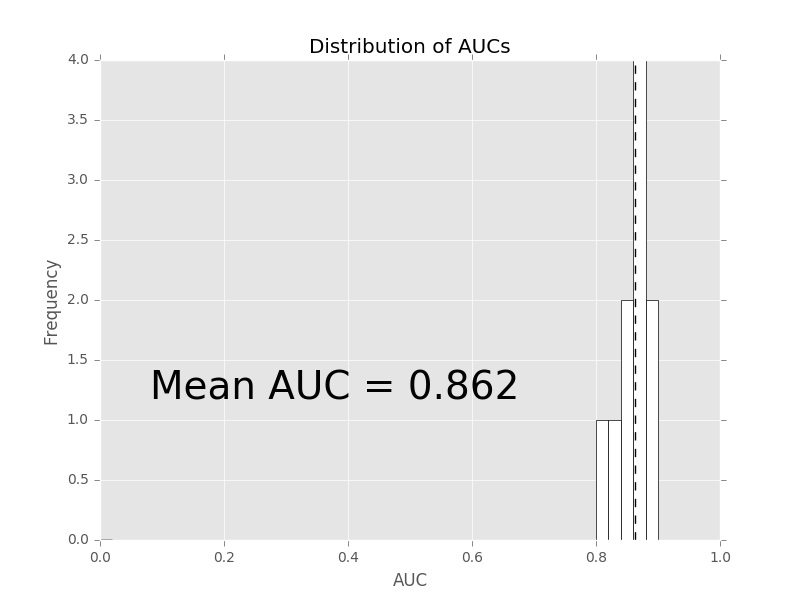
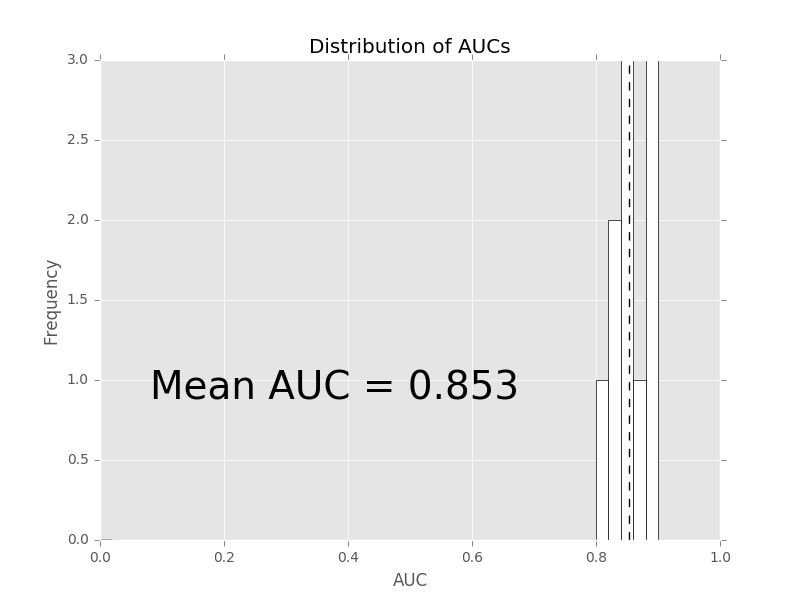
preprocessing looks like an initial success for python

diff --git a/Python/easyml/random_forest.py b/Python/easyml/random_forest.py
@@ -5,56 +5,58 @@ import numpy as np
 from os import path
 from sklearn.ensemble import RandomForestClassifier, RandomForestRegressor
 from sklearn.model_selection import train_test_split
-from sklearn.preprocessing import StandardScaler
 
 from .bootstrap import bootstrap_aucs, bootstrap_mses, bootstrap_predictions
 from .plot import plot_auc_histogram, plot_gaussian_predictions, plot_mse_histogram, plot_roc_curve
+from .preprocess import preprocess_identity
 from .sample import sample_equal_proportion
+from .utils import set_random_state
 
 
 __all__ = ['easy_random_forest']
 
 
-def easy_random_forest(data, dependent_variable, family='gaussian', sample=None,
-                       exclude_variables=None, categorical_variables=None,
-                       standardize_data=True, train_size=0.667, survival_rate_cutoff=0.05,
+def easy_random_forest(data, dependent_variable, family='gaussian',
+                       sampler=None, preprocessor=None,
+                       exclude_variables=None, categorical_variables=None, train_size=0.667,
                        n_samples=1000, n_divisions=1000, n_iterations=10,
                        out_directory='.', random_state=None, progress_bar=True,
                        n_core=1, **kwargs):
     # Make it run in sequential for now
     n_core = 1
 
-    # Handle random state
-    if random_state is not None:
-        np.random.seed(random_state)
+    # Set random state
+    set_random_state(random_state)
 
-    # Handle columns
+    # Set columns
     column_names = data.columns
-    column_names = [c for c in column_names if c != dependent_variable]
-    if exclude_variables is not None:
-        column_names = [c for c in column_names if c not in exclude_variables]
 
-    # Exclude certain variables and y
-    y = data[dependent_variable].values
-    data = data.drop(dependent_variable, axis=1)
+    # Exclude variables
     if exclude_variables is not None:
         data = data.drop(exclude_variables, axis=1)
+        column_names = [c for c in column_names if c not in exclude_variables]
 
-    # If True, standardize the data
-    if standardize_data:
-        stdsc = StandardScaler()
-        if categorical_variables is None:
-            X = data.values
-            X = stdsc.fit_transform(X)
-        else:
-            X_categorical = data[categorical_variables].values
-            X_numeric = data.drop(categorical_variables, axis=1).values
-            X_std = stdsc.fit_transform(X_numeric)
-            X = np.concatenate([X_categorical, X_std], axis=1)
-            column_names = [c for c in column_names if c not in categorical_variables]
-            column_names = categorical_variables + column_names
+    # Isolate y
+    y = data[dependent_variable].values
 
-    # Set glmnet specific handlers
+    # Remove y column name from column names
+    column_names = [c for c in column_names if c != dependent_variable]
+    data = data.drop(dependent_variable, axis=1)
+
+    # Isolate X
+    X = data.values
+
+    # Move categorical names to the front when there are categorical variables
+    if categorical_variables is not None and preprocessor is not None:
+        column_names = [c for c in column_names if c not in categorical_variables]
+        column_names = categorical_variables + column_names
+        categorical_variables = np.array([True if c in categorical_variables else False for c in column_names])
+
+    # Set preprocessor function
+    if preprocessor is None:
+        preprocessor = preprocess_identity
+
+    # Set random_forest specific handlers
     def fit_model(e, X, y):
         return e.fit(X, y)
 
@@ -65,14 +67,16 @@ def easy_random_forest(data, dependent_variable, family='gaussian', sample=None,
         def predict_model(e, X):
             return e.predict(X)
 
-        if sample is None:
-            sample = train_test_split
+        if sampler is None:
+            sampler = train_test_split
 
         # Split data
-        X_train, X_test, y_train, y_test = sample(X, y, train_size=train_size)
+        X_train, X_test, y_train, y_test = sampler(X, y, train_size=train_size)
 
         # Bootstrap predictions
-        y_train_pred, y_test_pred = bootstrap_predictions(model, fit_model, predict_model, X_train, y_train, X_test,
+        y_train_pred, y_test_pred = bootstrap_predictions(model, fit_model, predict_model, preprocessor,
+                                                          X_train, y_train, X_test,
+                                                          categorical_variables=categorical_variables,
                                                           n_samples=n_samples, progress_bar=progress_bar,
                                                           n_core=n_core)
 
@@ -89,7 +93,8 @@ def easy_random_forest(data, dependent_variable, family='gaussian', sample=None,
         plt.savefig(path.join(out_directory, 'test_predictions.png'))
 
         # Bootstrap training and test MSEs
-        train_mses, test_mses = bootstrap_mses(model, sample, fit_model, predict_model, X, y,
+        train_mses, test_mses = bootstrap_mses(model, sampler, fit_model, predict_model, preprocessor, X, y,
+                                               categorical_variables=categorical_variables,
                                                n_divisions=n_divisions, n_iterations=n_iterations,
                                                progress_bar=progress_bar, n_core=n_core)
 
@@ -108,14 +113,16 @@ def easy_random_forest(data, dependent_variable, family='gaussian', sample=None,
         def predict_model(e, X):
             return e.predict_proba(X)[:, 1]
 
-        if sample is None:
-            sample = sample_equal_proportion
+        if sampler is None:
+            sampler = sample_equal_proportion
 
         # Split data
-        X_train, X_test, y_train, y_test = sample(X, y, train_size=train_size)
+        X_train, X_test, y_train, y_test = sampler(X, y, train_size=train_size)
 
         # Bootstrap predictions
-        y_train_pred, y_test_pred = bootstrap_predictions(model, fit_model, predict_model, X_train, y_train, X_test,
+        y_train_pred, y_test_pred = bootstrap_predictions(model, fit_model, predict_model, preprocessor,
+                                                          X_train, y_train, X_test,
+                                                          categorical_variables=categorical_variables,
                                                           n_samples=n_samples, progress_bar=progress_bar,
                                                           n_core=n_core)
 
@@ -132,7 +139,8 @@ def easy_random_forest(data, dependent_variable, family='gaussian', sample=None,
         plt.savefig(path.join(out_directory, 'test_roc_curve.png'))
 
         # Bootstrap training and test AUCSs
-        train_aucs, test_aucs = bootstrap_aucs(model, sample, fit_model, predict_model, X, y,
+        train_aucs, test_aucs = bootstrap_aucs(model, sampler, fit_model, predict_model, preprocessor, X, y,
+                                               categorical_variables=categorical_variables,
                                                n_divisions=n_divisions, n_iterations=n_iterations,
                                                progress_bar=progress_bar, n_core=n_core)
 

diff --git a/Python/examples/cocaine_dependence/random_forest/random_forest.py b/Python/examples/cocaine_dependence/random_forest/random_forest.py
@@ -4,6 +4,7 @@ import os
 import pandas as pd
 
 from easyml.random_forest import easy_random_forest
+from easyml.preprocess import preprocess_scaler
 
 
 # Set matplotlib settings
@@ -16,6 +17,12 @@ if __name__ == "__main__":
 
     # Analyze data
     easy_random_forest(cocaine_dependence, 'DIAGNOSIS',
+                       family='binomial', exclude_variables=['subject'], categorical_variables=['Male'],
+                       random_state=1, progress_bar=True, n_core=1,
+                       n_samples=100, n_divisions=10, n_iterations=5)
+
+    # Analyze data
+    easy_random_forest(cocaine_dependence, 'DIAGNOSIS', preprocessor=preprocess_scaler,
                        family='binomial', exclude_variables=['subject'], categorical_variables=['Male'],
                        random_state=1, progress_bar=True, n_core=1,
                        n_samples=100, n_divisions=10, n_iterations=5)

diff --git a/Python/easyml/glmnet.py b/Python/easyml/glmnet.py
@@ -9,8 +9,8 @@ from sklearn.model_selection import train_test_split
 from .bootstrap import bootstrap_aucs, bootstrap_coefficients, bootstrap_mses, bootstrap_predictions
 from .plot import plot_auc_histogram, plot_gaussian_predictions, plot_mse_histogram, plot_roc_curve
 from .preprocess import preprocess_identity
-from .utils import process_coefficients, set_random_state
 from .sample import sample_equal_proportion
+from .utils import process_coefficients, set_random_state
 
 
 __all__ = ['easy_glmnet']
